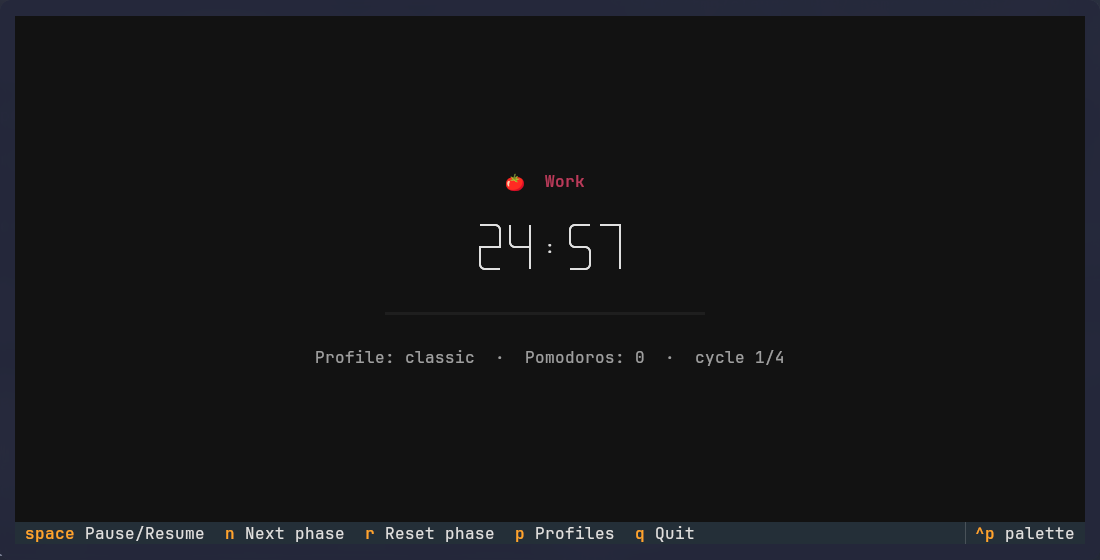
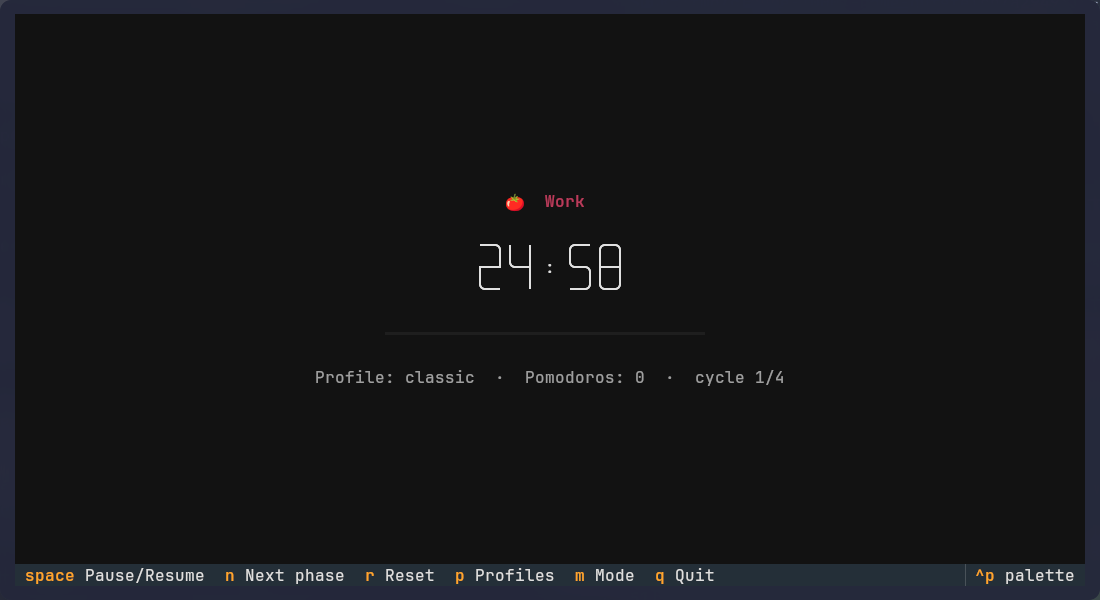
Refresh screenshots and add stopwatch screenshot

diff --git a/README.md b/README.md
@@ -75,7 +75,8 @@ Keys: `space` pause/resume · `n` next phase · `r` reset · `p` switch profile 
 `m` pomodoro/stopwatch mode · `l` lap (stopwatch) · `q` quit.
 Waybar: click = pause/resume, right click = next phase (or lap in stopwatch mode).
 
-The waybar module shows the remaining time (here: work running, work paused, short break):
+The waybar module shows the remaining time (here: work running, work paused, short break,
+stopwatch):
 
 ![Waybar module](docs/screenshots/waybar-module.png)
 
@@ -98,6 +99,8 @@ back to the pomodoro, which restarts fresh with the current profile.
 - The waybar module shows `⏱ MM:SS`; right click records a lap.
 - No hooks or notifications run in stopwatch mode. Switching modes during a work period runs
   `on_work_end` with `POMO_EVENT=switch`.
+
+![Stopwatch mode](docs/screenshots/stopwatch.png)
 
 ## Configuration
 
